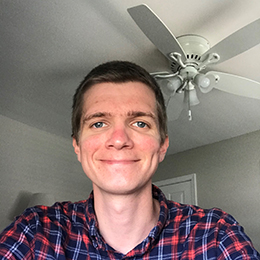
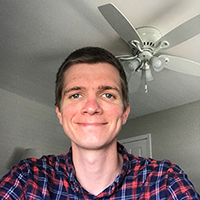
updates to 'about me page'+ responsiveness edits

diff --git a/portfolio.html b/portfolio.html
@@ -5,15 +5,15 @@
     <meta charset="utf-8">
     <meta name="viewport" content="width=device-width, initial-scale=1, shrink-to-fit=no">
     <link rel="stylesheet" href="css/reset.css">
-    <link rel="stylesheet" href="css/nav.css">
     <link rel="stylesheet" href="css/style.css">
+    <link rel="stylesheet" href="css/styleport.css">
     <link href="https://fonts.googleapis.com/css2?family=Raleway:wght@700&display=swap" rel="stylesheet">
     <link rel="stylesheet" href="https://stackpath.bootstrapcdn.com/bootstrap/4.3.1/css/bootstrap.min.css" integrity="sha384-ggOyR0iXCbMQv3Xipma34MD+dH/1fQ784/j6cY/iJTQUOhcWr7x9JvoRxT2MZw1T" crossorigin="anonymous">
   </head>
-  <body>
+  <body class="wholepage">  
     <div class="container-fluid">
       <nav class="navbar navbar-expand-md navbar-dark bg-dark mb-4">
-        <a class="navbar-brand" href="./index.html">EVERETT DIUGUID</a>
+        <a class="navbar-brand text-light" href="./index.html">EVERETT DIUGUID</a>
         <button class="navbar-toggler" type="button" data-toggle="collapse" data-target="#navbarCollapse" aria-controls="navbarCollapse" aria-expanded="false" aria-label="Toggle navigation">
           <span class="navbar-toggler-icon"></span>
         </button>
@@ -33,9 +33,9 @@
       </nav>
     </div>
     <main class="main"> 
-      <div class="container-fluid">
+      <div class="container">
         <div class="row">
-          <div class="col">
+          <div class="col-4">
             <div class="card" style="width: 18rem;">
               <div class="card-header">
                 <h2>Project:</h2>
@@ -46,49 +46,20 @@
                 <a href="#" class="btn btn-info">LINK</a>
               </div>
             </div>
-          </div>
-          <div class="col">
-            <div class="card" style="width: 18rem;">
-              <div class="card-header">
-                <h2>Project:</h2>
-              </div>
-              <div class="card-body">
-                <h5 class="card-title"></h5>
-                <p class="card-text">coming soon...</p>
-                <a href="#" class="btn btn-info">LINK</a>
-              </div>
-            </div>
-          </div>
-        </div>
-        <div class="row">
-          <div class="col">
-            <div class="card" style="width: 18rem;">
-              <div class="card-header">
-                <h2>Project:</h2>
-              </div>
-              <div class="card-body">
-                <h5 class="card-title"></h5>
-                <p class="card-text">coming soon...</p>
-                <a href="#" class="btn btn-info">LINK</a>
-              </div>
-            </div>
-          </div>
-          <div class="col">
-            <div class="card" style="width: 18rem;">
-              <div class="card-header">
-                <h2>Project:</h2>
-              </div>
-              <div class="card-body">
-                <h5 class="card-title"></h5>
-                <p class="card-text">coming soon...</p>
-                <a href="#" class="btn btn-info">LINK</a>
-              </div>
-            </div>
-          </div>
-        </div>  
-      </div>
-    </div>
-  </main>s
+            <div class="row">
+              <div class="col-4">
+                <div class="card" style="width: 18rem;">
+                  <div class="card-header">
+                    <h2>Project:</h2>
+                  </div>
+                  <div class="card-body">
+                    <h5 class="card-title"></h5>
+                    <p class="card-text">coming soon...</p>
+                    <a href="#" class="btn btn-info">LINK</a>
+                  </div>
+                </div>
+        </div> 
+    </main>    
     <script src="https://code.jquery.com/jquery-3.3.1.slim.min.js" integrity="sha384-q8i/X+965DzO0rT7abK41JStQIAqVgRVzpbzo5smXKp4YfRvH+8abtTE1Pi6jizo" crossorigin="anonymous"></script>
     <script src="https://cdnjs.cloudflare.com/ajax/libs/popper.js/1.14.7/umd/popper.min.js" integrity="sha384-UO2eT0CpHqdSJQ6hJty5KVphtPhzWj9WO1clHTMGa3JDZwrnQq4sF86dIHNDz0W1" crossorigin="anonymous"></script>
     <script src="https://stackpath.bootstrapcdn.com/bootstrap/4.3.1/js/bootstrap.min.js" integrity="sha384-JjSmVgyd0p3pXB1rRibZUAYoIIy6OrQ6VrjIEaFf/nJGzIxFDsf4x0xIM+B07jRM" crossorigin="anonymous"></script>

diff --git a/index.html b/index.html
@@ -5,15 +5,14 @@
     <meta charset="utf-8">
     <meta name="viewport" content="width=device-width, initial-scale=1, shrink-to-fit=no">
     <link rel="stylesheet" href="css/reset.css">
-    <link rel="stylesheet" href="css/nav.css">
     <link rel="stylesheet" href="css/style.css">
     <link href="https://fonts.googleapis.com/css2?family=Raleway:wght@700&display=swap" rel="stylesheet">
     <link rel="stylesheet" href="https://stackpath.bootstrapcdn.com/bootstrap/4.3.1/css/bootstrap.min.css" integrity="sha384-ggOyR0iXCbMQv3Xipma34MD+dH/1fQ784/j6cY/iJTQUOhcWr7x9JvoRxT2MZw1T" crossorigin="anonymous">
   </head>
-  <body>  
+  <body class="wholepage">  
     <div class="container-fluid">
       <nav class="navbar navbar-expand-md navbar-dark bg-dark mb-4">
-        <a class="navbar-brand" href="./index.html">EVERETT DIUGUID</a>
+        <a class="navbar-brand text-light" href="./index.html">EVERETT DIUGUID</a>
         <button class="navbar-toggler" type="button" data-toggle="collapse" data-target="#navbarCollapse" aria-controls="navbarCollapse" aria-expanded="false" aria-label="Toggle navigation">
           <span class="navbar-toggler-icon"></span>
         </button>
@@ -35,11 +34,32 @@
   <main class="main">
     <div class="container-fluid">
       <div class="row">
-        <div class="col m-4">
+        <div class="col">
+          <h1>About Me:</h1>
+        </div>
+      </div>
+      <div class="row">
+        <div class="col">
           <img class="face" src="images/IMG_1967resized.jpg">
         </div>
-        <div class="col m-2">
-          <p>Lorem ipsum dolor sit amet, consectetur adipiscing elit. Nullam consequat elementum posuere. Duis quis tincidunt mi, vel commodo massa. Integer lectus purus, mollis eleifend venenatis vel, semper sed augue.  Lorem ipsum dolor sit amet, consectetur adipiscing elit. Nullam consequat elementum posuere. semper sed augue.  Lorem ipsum dolor sit amet, consectetur</p>
+      </div>
+      <div class="row">
+        <div class="col">
+          <p> 
+              Hello World! My name is Everett Diuguid.  
+            I am an aspiring coder/web-developer currently enrolled in The Coding Boot Camp at UNC-Chapel Hill.  I am an Alumni of Appalachain State University 
+            with degrees in History (BA) and Spanish Language and Liturature (BA).  
+          </p>
+          <p>
+              Prior to starting my journey through coding, I worked for over a decade in the service and hospitality industry, 
+            gaining a love for the culinary arts while building a strong work ethic with a primary focus on attention to detail.
+            I spend my free time outside; tending to vegetables in the garden, hiking or biking through North Carolinas amazing state parks, or at the computer building up my coding abilities.
+            I have strong passion for live music, photography, and all things food.
+          </p>
+          <p>
+              Here you will find links to my current projects, my social media pages, and a contact page to submit your name, email address, and any comments or questions you may have for me.  
+            I will respond as soon as I can!  Thank you so much for taking the time to visit my page.
+          </p>  
         </div>
       </div>
     </div>

diff --git a/css/style.css b/css/style.css
@@ -1,5 +1,30 @@
+* {
+    box-sizing: border-box;
+}
+.wholepage {
+    background-color: #98c1d9;
+}
 .main {
-    width: 612px;
+    color: #293241;
+    font-family: 'Raleway', sans-serif;
+    width: 80%;
     margin: auto;
     box-sizing: border-box;
+    background-color: #e0fbfc;
+    border-radius: 5px;
+    text-indent: 25px;
+    text-align: left;
+    padding: 10px;    
+}
+
+a.navbar-brand {
+    font-family: 'Raleway', sans-serif;
+    font-size: 30px;
+}
+a.nav-link {
+    font-family: 'Raleway', sans-serif;
+}
+.face {
+    text-align: center;
+    margin-bottom: 10px;
 }

diff --git a/css/styleport.css b/css/styleport.css
@@ -1,0 +1,7 @@
+.main {
+    width: 80%;
+    margin: auto;
+    box-sizing: border-box;
+    background-color: #edd382;
+    border-radius: 5px; 
+}
